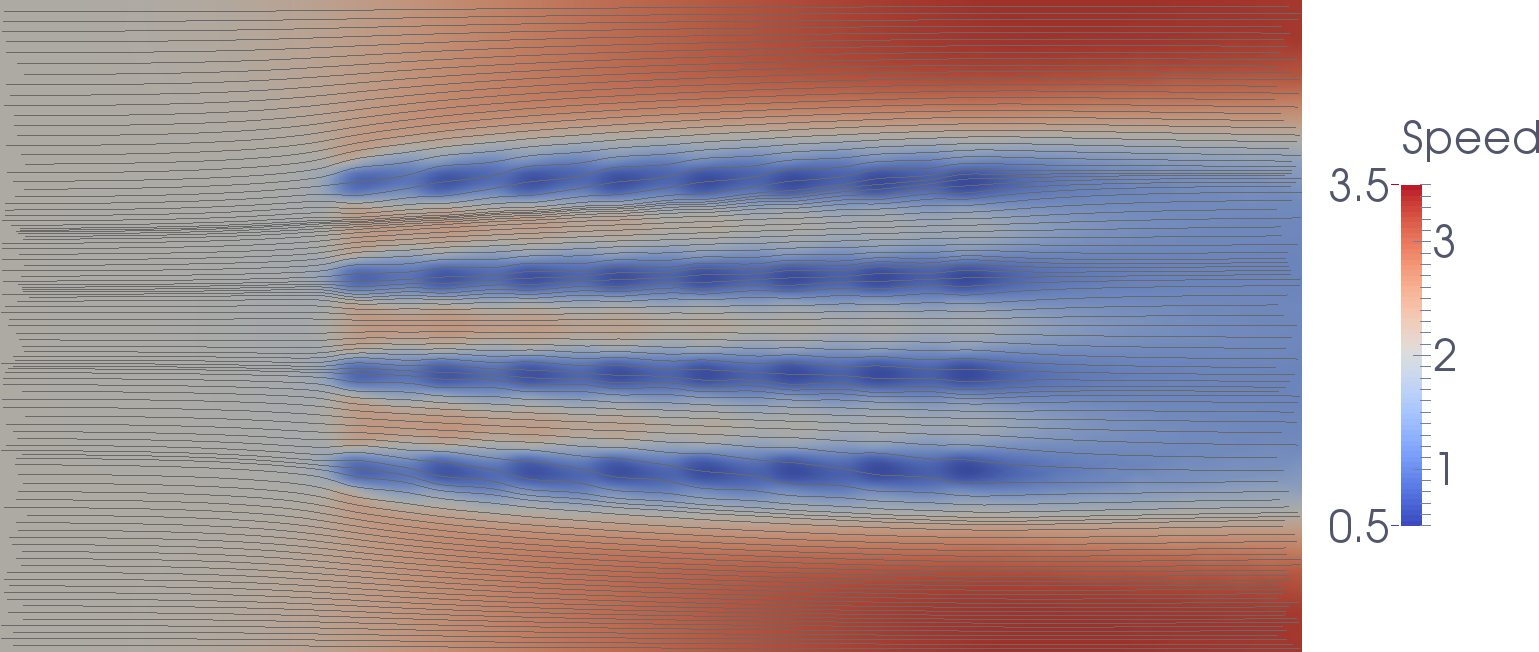
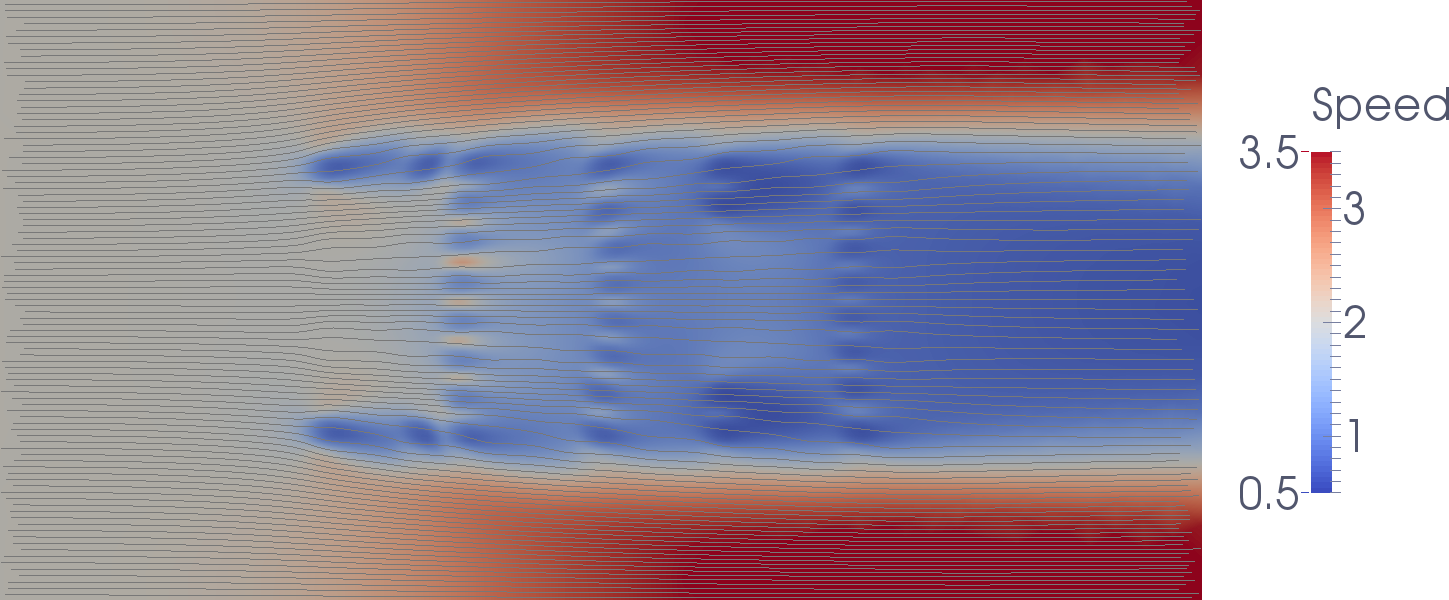
More improvements to the channel optimization demo

diff --git a/examples/channel-optimization/channel-optimization.py b/examples/channel-optimization/channel-optimization.py
@@ -8,42 +8,47 @@
 # Farm layout optimization
 # ========================
 #
-# This demo aims to optimise the position of 32 turbines in a channel in order
-# to maximise their energy extraction. While the domain in this demo is quite
-# simple, the concept applies also to more complex, realistic domains.
+# This demo optimizes the position of 32 turbines in a channel. The goal of the
+# optimization is to maximise the farm's energy extraction. While the domain in
+# this demo is quite simple, the concept applies also to more complex, realistic
+# domains.
 #
-# The optimisation starts with a regular layout:
+# The optimisation is initialized with a regular layout of 32 turbines:
 #
 # .. image:: farm_init.png
 #     :scale: 30
 #
 #
-# In this configuration the flow speed with streamlines looks:
+# With this configuration, the flow speed with streamlines is:
 #
 # .. image:: velocity_init.png
 #     :scale: 30
 #
-# and the power extraction by the farm (without taking losses into account) is 46 MW.
+# The power extraction by the farm (without taking losses into account) is 46 MW.
 #
-# The optimisation finishes after 92 iterations. The optimised farm layout is:
+# The layout optimisation finishes after 92 iterations. The optimised farm layout is:
 #
 # .. image:: farm_opt.png
 #     :scale: 30
 #
-# and the associated flow speed with streamlines looks:
+# The optimization has arranged the turbines to "barrages" perpendicular to the
+# flow. Furthermore, it added small north and east barrages of turbines that
+# force the water to flow through the prependicular "barrages". The associated
+# flow speed with streamlines is:
 #
 # .. image:: velocity_opt.png
 #     :scale: 30
 #
 #
 # The power production of the optimised layout is 80 MW. That is the
-# optimisation increased the power production by 74 %.
+# optimisation increased the power production by 74 % compared to the initial
+# layout!
 
 # Implementation
 # **************
 #
 
-# The initial part of the program defines a steady state shallow water problem,
+# The first part of the program sets up a steady state shallow water problem,
 # and is nearly identical to the :ref:`channel_simulation` example:
 
 from opentidalfarm import *
@@ -132,12 +137,15 @@ f_opt = maximize(rf, bounds=[lb, ub], method="L-BFGS-B", options={'maxiter': 100
 
 #   $ mpirun -n 4 python channel-optimization.py
 
-# During the optimization, OpenTidalFarm will create multiple files for
+# During the optimization run, OpenTidalFarm creates multiple files for
 # inspection:
 #
 # *  turbines.pvd: Stores the position and friction values of the turbines at
 #    each optimisation iteration.
-# *  iter_x: For each optimisation iteration x, the iter_x stores the associated
-#    velocity and pressure solution.
+# *  iter_*: For each optimisation iteration X, the associated
+#    velocity and pressure solutions are stored in a directory named iter_X.
 # *  iterate.dat: A testfile that dumps the optimisation progress, e.g. number of
 #    iterations, function value, gradient norm, etc
+#
+# The pvd files can be opened with the open-source software
+# `Paraview <http://www.paraview.org>`_.

diff --git a/docs/examples/channel-opt/channel-opt.rst b/docs/examples/channel-opt/channel-opt.rst
@@ -8,42 +8,47 @@
 Farm layout optimization
 ========================
 
-This demo aims to optimise the position of 32 turbines in a channel in order
-to maximise their energy extraction. While the domain in this demo is quite
-simple, the concept applies also to more complex, realistic domains.
+This demo optimizes the position of 32 turbines in a channel. The goal of the
+optimization is to maximise the farm's energy extraction. While the domain in
+this demo is quite simple, the concept applies also to more complex, realistic
+domains.
 
-The optimisation starts with a regular layout:
+The optimisation is initialized with a regular layout of 32 turbines:
 
 .. image:: farm_init.png
     :scale: 30
 
 
-In this configuration the flow speed with streamlines is:
+With this configuration, the flow speed with streamlines is:
 
 .. image:: velocity_init.png
     :scale: 30
 
-and the power extraction by the farm (without taking losses into account) is 46 MW.
+The power extraction by the farm (without taking losses into account) is 46 MW.
 
-The optimisation finishes after 92 iterations. The optimised farm layout is:
+The layout optimisation finishes after 92 iterations. The optimised farm layout is:
 
 .. image:: farm_opt.png
     :scale: 30
 
-and the associated flow speed with streamlines is:
+The optimization has arranged the turbines to "barrages" perpendicular to the
+flow. Furthermore, it added small north and east barrages of turbines that
+force the water to flow through the prependicular "barrages". The associated
+flow speed with streamlines is:
 
 .. image:: velocity_opt.png
     :scale: 30
 
 
 The power production of the optimised layout is 80 MW. That is the
-optimisation increased the power production by 74 %.
+optimisation increased the power production by 74 % compared to the initial
+layout!
 
 Implementation
 **************
 
 
-The initial part of the program defines a steady state shallow water problem,
+The first part of the program sets up a steady state shallow water problem,
 and is nearly identical to the :ref:`channel_simulation` example:
 
 ::
@@ -146,12 +151,15 @@ You can speed up the calculation by using multiple cores (in this case 4) with:
 
   $ mpirun -n 4 python channel-optimization.py
 
-During the optimization, OpenTidalFarm will create multiple files for
+During the optimization run, OpenTidalFarm creates multiple files for
 inspection:
 
 *  turbines.pvd: Stores the position and friction values of the turbines at
    each optimisation iteration.
-*  iter_x: For each optimisation iteration x, the iter_x stores the associated
-   velocity and pressure solution.
+*  iter_*: For each optimisation iteration X, the associated
+   velocity and pressure solutions are stored in a directory named iter_X.
 *  iterate.dat: A testfile that dumps the optimisation progress, e.g. number of
    iterations, function value, gradient norm, etc
+
+The pvd files can be opened with the open-source software
+`Paraview <http://www.paraview.org>`_.
